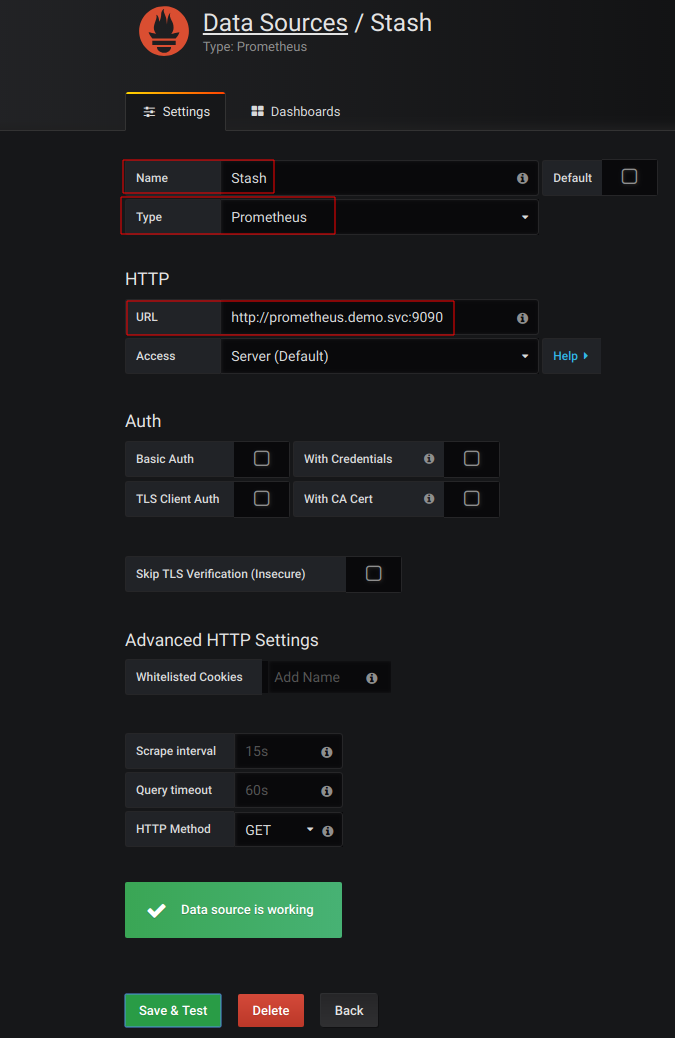
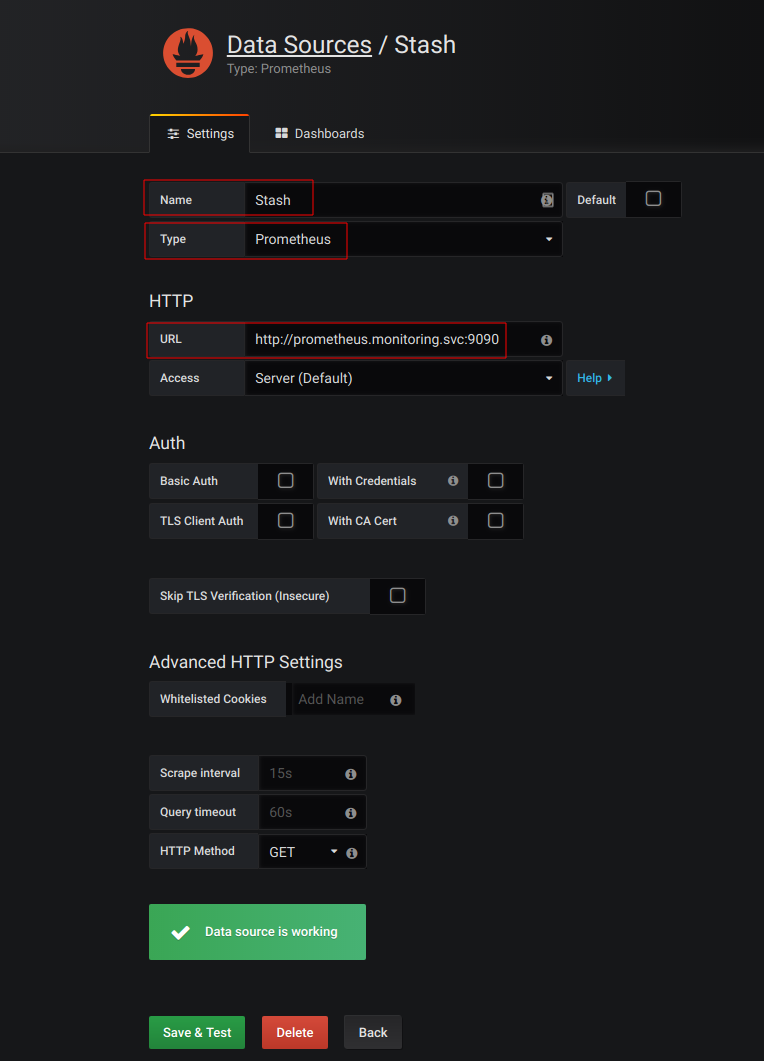
Fix monitoring in helm + update doc to match with third-party-tools tutorial (#637)

diff --git a/docs/guides/monitoring/coreos.md b/docs/guides/monitoring/coreos.md
@@ -23,8 +23,8 @@ CoreOS [prometheus-operator](https://github.com/coreos/prometheus-operator) prov
 - To keep Prometheus resources isolated, we are going to use a separate namespace to deploy Prometheus operator and respective resources.
 
   ```console
-  $ kubectl create ns demo
-  namespace/demo created
+  $ kubectl create ns monitoring
+  namespace/monitoring created
   ```
 
 - We need a CoreOS prometheus-operator instance running. If you already don't have a running instance, deploy one following the docs from [here](https://github.com/appscode/third-party-tools/blob/master/monitoring/prometheus/coreos-operator/README.md).
@@ -40,30 +40,30 @@ $ curl -fsSL https://raw.githubusercontent.com/appscode/stash/0.8.1/hack/deploy/
   --monitoring-agent=prometheus.io/coreos-operator \
   --monitoring-backup=true \
   --monitoring-operator=true \
-  --prometheus-namespace=demo \
+  --prometheus-namespace=monitoring \
   --servicemonitor-label=k8s-app=prometheus
 ```
 
-This will create a `ServiceMonitor` crd with name `stash-servicemonitor` in demo namespace for monitoring endpoints of `stash-operator` service. This ServiceMonitor will have label `k8s-app: prometheus` provided by `--servicemonitor-label` flag. This label will be used by Prometheus crd to select this ServiceMonitor.
+This will create a `ServiceMonitor` crd with name `stash-servicemonitor` in monitoring namespace for monitoring endpoints of `stash-operator` service. This ServiceMonitor will have label `k8s-app: prometheus` provided by `--servicemonitor-label` flag. This label will be used by Prometheus crd to select this ServiceMonitor.
 
 Let's check the ServiceMonitor crd using following command,
 
 ```yaml
-$ kubectl get servicemonitor stash-servicemonitor -n demo -o yaml
+$ kubectl get servicemonitor stash-servicemonitor -n monitoring -o yaml
 apiVersion: monitoring.coreos.com/v1
 kind: ServiceMonitor
 metadata:
   annotations:
     kubectl.kubernetes.io/last-applied-configuration: |
-      {"apiVersion":"monitoring.coreos.com/v1","kind":"ServiceMonitor","metadata":{"annotations":{},"labels":{"k8s-app":"prometheus"},"name":"stash-servicemonitor","namespace":"demo"},"spec":{"endpoints":[{"honorLabels":true,"port":"pushgateway"},{"bearerTokenFile":"/var/run/secrets/kubernetes.io/serviceaccount/token","port":"api","scheme":"https","tlsConfig":{"caFile":"/etc/prometheus/secrets/stash-apiserver-cert/tls.crt","serverName":"stash-operator.kube-system.svc"}}],"namespaceSelector":{"matchNames":["kube-system"]},"selector":{"matchLabels":{"app":"stash"}}}}
+      {"apiVersion":"monitoring.coreos.com/v1","kind":"ServiceMonitor","metadata":{"annotations":{},"labels":{"k8s-app":"prometheus"},"name":"stash-servicemonitor","namespace":"monitoring"},"spec":{"endpoints":[{"honorLabels":true,"port":"pushgateway"},{"bearerTokenFile":"/var/run/secrets/kubernetes.io/serviceaccount/token","port":"api","scheme":"https","tlsConfig":{"caFile":"/etc/prometheus/secrets/stash-apiserver-cert/tls.crt","serverName":"stash-operator.kube-system.svc"}}],"namespaceSelector":{"matchNames":["kube-system"]},"selector":{"matchLabels":{"app":"stash"}}}}
   creationTimestamp: 2018-11-21T09:35:37Z
   generation: 1
   labels:
     k8s-app: prometheus
   name: stash-servicemonitor
-  namespace: demo
+  namespace: monitoring
   resourceVersion: "6126"
-  selfLink: /apis/monitoring.coreos.com/v1/namespaces/demo/servicemonitors/stash-servicemonitor
+  selfLink: /apis/monitoring.coreos.com/v1/namespaces/monitoring/servicemonitors/stash-servicemonitor
   uid: cd6cca14-ed70-11e8-8838-0800272dd258
 spec:
   endpoints:
@@ -85,12 +85,12 @@ spec:
 
 Here, we have two endpoints at `spec.endpoints` field. One is `pushgateway` that exports backup and recovery metrics and another is `api` which exports operator metrics.
 
-Stash exports operator metrics via TLS secured `api` endpoint. So, Prometheus server need to provide certificate while scrapping metrics from this endpoint. Stash has created a secret named `stash-apiserver-certs` with this certificate in `demo` namespace as we have specified that we are going to deploy Prometheus in that namespace through `--prometheus-namespace` flag. We have to specify this secret in Prometheus crd through `spec.secrets` field. Prometheus operator will mount this secret at `/etc/prometheus/secrets/stash-apiserver-cert` directory of respective Prometheus pod. So, we need to configure `tlsConfig` field to use that certificate. Here, `caFile` indicates the certificate to use and `serverName` is used to verify hostname. In our case, the certificate is valid for hostname `server` and `stash-operator.kube-system.svc`.
+Stash exports operator metrics via TLS secured `api` endpoint. So, Prometheus server need to provide certificate while scrapping metrics from this endpoint. Stash has created a secret named `stash-apiserver-certs` with this certificate in `monitoring` namespace as we have specified that we are going to deploy Prometheus in that namespace through `--prometheus-namespace` flag. We have to specify this secret in Prometheus crd through `spec.secrets` field. Prometheus operator will mount this secret at `/etc/prometheus/secrets/stash-apiserver-cert` directory of respective Prometheus pod. So, we need to configure `tlsConfig` field to use that certificate. Here, `caFile` indicates the certificate to use and `serverName` is used to verify hostname. In our case, the certificate is valid for hostname `server` and `stash-operator.kube-system.svc`.
 
-Let's check secret `stash-apiserver-cert` has been created in demo namespace.
+Let's check secret `stash-apiserver-cert` has been created in monitoring namespace.
 
 ```console
-$ kubectl get secret -n demo -l=app=stash
+$ kubectl get secret -n monitoring -l=app=stash
 NAME                   TYPE                DATA   AGE
 stash-apiserver-cert   kubernetes.io/tls   2      31m
 ```
@@ -114,7 +114,7 @@ apiVersion: monitoring.coreos.com/v1
 kind: Prometheus
 metadata:
   name: prometheus
-  namespace: demo
+  namespace: monitoring
   labels:
     k8s-app: prometheus
 spec:
@@ -144,7 +144,7 @@ Prometheus operator watches for `Prometheus` crd. Once a `Prometheus` crd is cre
 Let's check StatefulSet has been created,
 
 ```console
-$ kubectl get statefulset -n demo
+$ kubectl get statefulset -n monitoring
 NAME                    DESIRED   CURRENT   AGE
 prometheus-prometheus   1         1         4m
 ```
@@ -152,7 +152,7 @@ prometheus-prometheus   1         1         4m
 Check StatefulSet's pod is running,
 
 ```console
-$ kubectl get pod prometheus-prometheus-0 -n demo
+$ kubectl get pod prometheus-prometheus-0 -n monitoring
 NAME                      READY   STATUS    RESTARTS   AGE
 prometheus-prometheus-0   2/2     Running   0          6m
 ```
@@ -164,7 +164,7 @@ Now, we are ready to access Prometheus dashboard.
 Prometheus server is running on port `9090`. We are going to use [port forwarding](https://kubernetes.io/docs/tasks/access-application-cluster/port-forward-access-application-cluster/) to access Prometheus dashboard. Run following command on a separate terminal,
 
 ```console
-$ kubectl port-forward -n demo prometheus-prometheus-0 9090
+$ kubectl port-forward -n monitoring prometheus-prometheus-0 9090
 Forwarding from 127.0.0.1:9090 -> 9090
 Forwarding from [::1]:9090 -> 9090
 ```
@@ -181,11 +181,11 @@ To cleanup the Kubernetes resources created by this tutorial, run:
 
 ```console
 # cleanup Prometheus resources
-kubectl delete -n demo prometheus prometheus
-kubectl delete -n demo secret stash-apiserver-cert
+kubectl delete -n monitoring prometheus prometheus
+kubectl delete -n monitoring secret stash-apiserver-cert
 
 # delete namespace
-kubectl delete ns demo
+kubectl delete ns monitoring
 ```
 
 To uninstall Stash follow this [guide](/docs/setup/uninstall.md).

diff --git a/docs/guides/monitoring/builtin.md b/docs/guides/monitoring/builtin.md
@@ -23,8 +23,8 @@ At first, you need to have a Kubernetes cluster, and the kubectl command-line to
 To keep Prometheus resources isolated, we are going to use a separate namespace to deploy Prometheus server.
 
 ```console
-$ kubectl create ns demo
-namespace/demo created
+$ kubectl create ns monitoring
+namespace/monitoring created
 ```
 
 ## Enable Monitoring in Stash
@@ -36,7 +36,7 @@ $ curl -fsSL https://raw.githubusercontent.com/appscode/stash/0.8.1/hack/deploy/
   --monitoring-agent=prometheus.io/builtin \
   --monitoring-backup=true \
   --monitoring-operator=true \
-  --prometheus-namespace=demo
+  --prometheus-namespace=monitoring
 ```
 
 This will add necessary annotations to `stash-operator` service. Prometheus server will scrap metrics using those annotations. Let's check which annotations are added to the service,
@@ -105,12 +105,12 @@ Now, we are ready to configure our Prometheus server to scrap those metrics.
 
 ## Deploy Prometheus Server
 
-We have deployed Stash in `kube-system` namespace. Stash exports operator metrics via TLS secured `api` endpoint. So, Prometheus server need to provide certificate while scrapping metrics from this endpoint. Stash has created a secret named `stash-apiserver-certs`  with this certificate in `demo` namespace as we have specified that we are going to deploy Prometheus in that namespace through `--prometheus-namespace` flag. We have to mount this secret in Prometheus deployment.
+We have deployed Stash in `kube-system` namespace. Stash exports operator metrics via TLS secured `api` endpoint. So, Prometheus server need to provide certificate while scrapping metrics from this endpoint. Stash has created a secret named `stash-apiserver-certs`  with this certificate in `monitoring` namespace as we have specified that we are going to deploy Prometheus in that namespace through `--prometheus-namespace` flag. We have to mount this secret in Prometheus deployment.
 
-Let's check `stash-apiserver-cert` certificate has been created in `demo` namespace.
+Let's check `stash-apiserver-cert` certificate has been created in `monitoring` namespace.
 
 ```console
-$ kubectl get secret -n demo -l=app=stash
+$ kubectl get secret -n monitoring -l=app=stash
 NAME                   TYPE                DATA   AGE
 stash-apiserver-cert   kubernetes.io/tls   2      2m21s
 ```
@@ -137,7 +137,7 @@ metadata:
   name: stash-prometheus-server-conf
   labels:
     name: stash-prometheus-server-conf
-  namespace: demo
+  namespace: monitoring
 data:
   prometheus.yml: |-
     global:
@@ -258,7 +258,7 @@ apiVersion: apps/v1
 kind: Deployment
 metadata:
   name: stash-prometheus-server
-  namespace: demo
+  namespace: monitoring
 spec:
   replicas: 1
   selector:
@@ -312,7 +312,7 @@ deployment.apps/stash-prometheus-server created
 Prometheus server is running on port `9090`. We are going to use [port forwarding](https://kubernetes.io/docs/tasks/access-application-cluster/port-forward-access-application-cluster/) to access Prometheus dashboard. Run following command on a separate terminal,
 
 ```console
-$ kubectl port-forward -n demo stash-prometheus-server-9ddbf79b6-8l6hk 9090
+$ kubectl port-forward -n monitoring stash-prometheus-server-9ddbf79b6-8l6hk 9090
 Forwarding from 127.0.0.1:9090 -> 9090
 Forwarding from [::1]:9090 -> 9090
 ```
@@ -331,12 +331,12 @@ To cleanup the Kubernetes resources created by this tutorial, run:
 kubectl delete clusterrole stash-prometheus-server
 kubectl delete clusterrolebinding stash-prometheus-server
 
-kubectl delete serviceaccount/stash-prometheus-server -n demo
-kubectl delete configmap/stash-prometheus-server-conf -n demo
-kubectl delete deployment stash-prometheus-server -n demo
-kubectl delete secret stash-apiserver-cert -n demo
+kubectl delete serviceaccount/stash-prometheus-server -n monitoring
+kubectl delete configmap/stash-prometheus-server-conf -n monitoring
+kubectl delete deployment stash-prometheus-server -n monitoring
+kubectl delete secret stash-apiserver-cert -n monitoring
 
-kubectl delete ns demo
+kubectl delete ns monitoring
 ```
 
 To uninstall Stash follow this [guide](/docs/setup/uninstall.md).

diff --git a/docs/guides/monitoring/grafana.md b/docs/guides/monitoring/grafana.md
@@ -40,7 +40,7 @@ apiVersion: v1
 kind: Service
 metadata:
   name: prometheus
-  namespace: demo
+  namespace: monitoring
 spec:
   type: ClusterIP
   ports:
@@ -69,7 +69,7 @@ Now, follow these steps to add the Prometheus server as data source of Grafana U
 3. Now, configure `Name`, `Type` and `URL` fields as specified below and keep rest of the configuration to their default value then click `Save&Test` button.
     - *Name: Stash* (you can give any name)
     - *Type: Prometheus*
-    - *URL: http://prometheus.demo.svc:9090*
+    - *URL: http://prometheus.monitoring.svc:9090*
       (url format: http://{prometheus service name}.{namespace}.svc:{port})
 
     <p align="center">
@@ -113,7 +113,7 @@ Once you have imported the dashboard successfully, you will be greeted with Stas
 To cleanup the Kubernetes resources created by this tutorial, run:
 
 ```console
-kubectl delete -n demo service prometheus
+kubectl delete -n monitoring service prometheus
 ```
 
 ## Next Steps

diff --git a/docs/guides/monitoring/overview.md b/docs/guides/monitoring/overview.md
@@ -91,7 +91,7 @@ $ helm install appscode/stash --name stash-operator --version 0.8.1 --namespace 
   --set monitoring.agent=prometheus.io/coreos-operator \
   --set monitoring.backup=true \
   --set monitoring.operator=true \
-  --set monitoring.prometheus.namespace=demo \
+  --set monitoring.prometheus.namespace=monitoring \
   --set monitoring.serviceMonitor.labels.k8s-app=prometheus
 ```
 
@@ -101,7 +101,7 @@ $ curl -fsSL https://raw.githubusercontent.com/appscode/stash/0.8.1/hack/deploy/
   --monitoring-agent=prometheus.io/coreos-operator \
   --monitoring-backup=true \
   --monitoring-operator=true \
-  --prometheus-namespace=demo \
+  --prometheus-namespace=monitoring \
   --servicemonitor-label=k8s-app=prometheus
 ```
 
